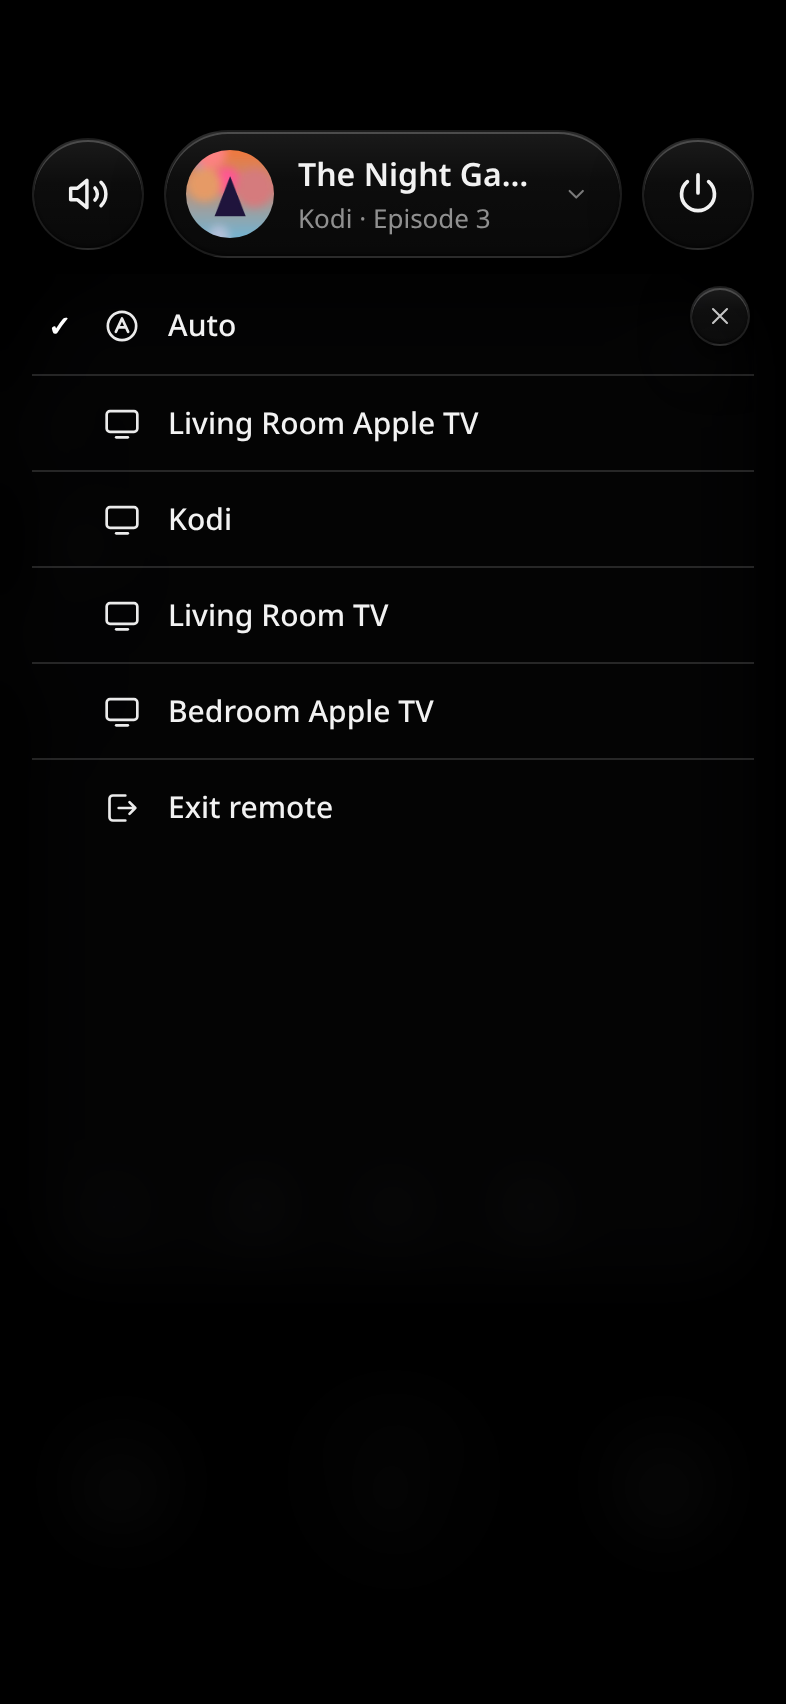
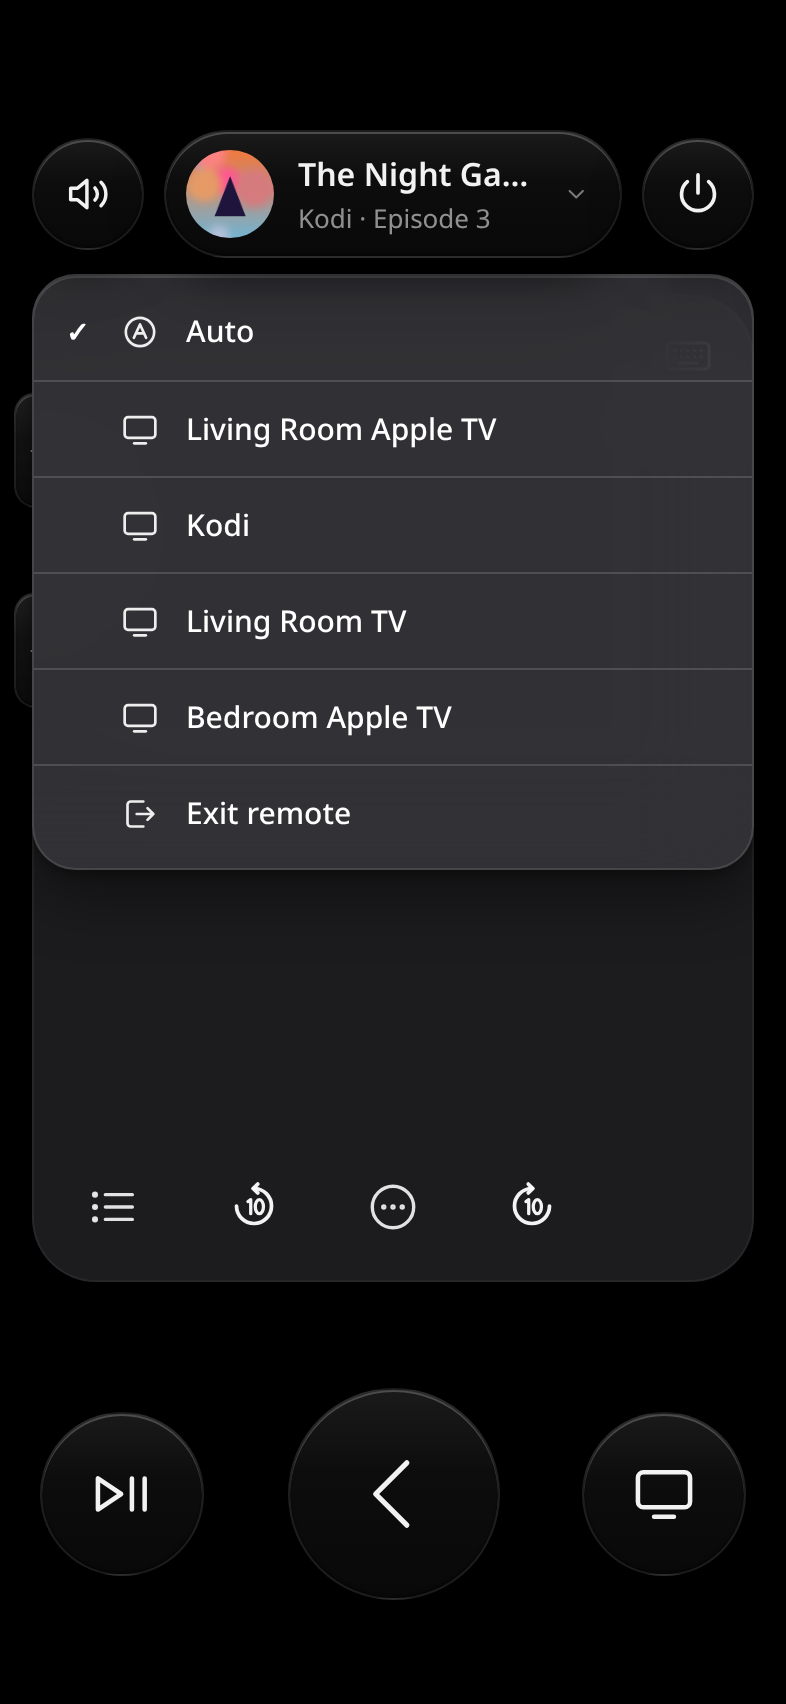
Grok Bot: 0.1.12 - device picker is a compact floating frosted-glass panel only as tall as its rows (rounded, soft shadow, grows down from the pill, scrolls only past the screen bottom); no full-page shade (transparent tap-catcher still closes on outside tap); close button removed (pill, outside tap

diff --git a/test/test.js b/test/test.js
@@ -192,7 +192,7 @@ function ptr(w, el, type, x = 100, y = 100) {
     m.$(".kb-sub").textContent === "Keyboard Input" && m.$(".kb .kb-x").classList.contains("glass") && !m.$(".kb .hint") &&
     [...m.card.shadowRoot.querySelectorAll(".kb .row button")].every((b) => b.classList.contains("glass")) &&
     m.$(".kb textarea").placeholder === "Type or dictate", m.$(".kb-title").textContent);
-  check("D17c picker keeps a thin glass close button", !!m.$(".picker .dd-x.glass"));
+  check("D17c picker has no close button (removed in 0.1.12, Grok Bot 11 Oct 2026); the typing sheet keeps its own", !m.$(".picker .dd-x") && !!m.$(".kb .kb-x.glass"));
   const ta = m.$(".kb textarea"); ta.value = "space"; ta.dispatchEvent(new w.Event("input")); await sleep(400);
   check("D18 Kodi: live Input.SendText done=false while typing", eq(m.hass.calls, [["kodi", "call_method", { entity_id: "media_player.kodi", method: "Input.SendText", text: "space", done: false }]]), m.hass.calls);
   ta.value = "space x"; ta.dispatchEvent(new w.Event("input"));
@@ -554,13 +554,43 @@ function ptr(w, el, type, x = 100, y = 100) {
     check("PK4 tapping the pill again closes it", !k.$(".picker").classList.contains("show") && !k.$(".pill").classList.contains("open"));
     k.$(".pill").click(); k.$(".picker").dispatchEvent(new w.MouseEvent("click", { bubbles: true }));
     check("PK5 tapping outside the list closes it", !k.$(".picker").classList.contains("show"));
-    k.$(".pill").click(); k.$(".picker .dd-x").click();
-    check("PK6 close button closes it", !k.$(".picker").classList.contains("show") && !k.$(".pill").classList.contains("open"));
+    // 0.1.12 (Grok Bot, 11 Oct 2026): the close button is gone; Escape is the third way to close (pill, outside, Escape)
+    k.$(".pill").click(); k.$(".picker .opt").dispatchEvent(new w.KeyboardEvent("keydown", { key: "Escape", bubbles: true, composed: true }));
+    check("PK6 no close button; Escape closes it", !k.$(".picker .dd-x") && !k.$('.picker [aria-label="Close"]') && !k.$('.picker [data-act="close"]') &&
+      !k.$(".picker").classList.contains("show") && !k.$(".pill").classList.contains("open"));
     check("PK7 no platform logo icons; neutral banner wording", !/mdi:apple/.test(JSON.stringify(Object.values(H.PLATFORMS).map((p) => p.icon))) &&
       !/iOS|Apple TV/.test(H.bannerText({ platform: "apple_tv" }, "Den").body));
     const src = fs.readFileSync(path.join(ROOT, "glass-remote-card.js"), "utf8");
     check("PK8 no design comparisons or trademark style names in the code", !/Liquid|Siri|iOS Remote|Apple's|Apple-style|Apple-TV-Remote|SF Pro|-apple-system|tvOS/.test(src));
     k.card.remove(); w.localStorage.clear();
+  }
+
+  // ---- DD: compact floating picker panel, no full-page sheet, no close button (0.1.12, Grok Bot 11 Oct 2026) ----
+  {
+    w.localStorage.clear();
+    const k = mount(w, CONFIG(), states({ "media_player.kodi": { attributes: { source_list: ["Movies", "TV"], source: "TV" } } }));
+    const css = k.$("style").textContent;
+    const rule = (sel) => { const m = css.match(new RegExp("\\n\\s*" + sel.replace(/[.*+?^${}()|[\]\\]/g, "\\$&") + " \\{([^}]*)\\}")); return m ? m[1] : ""; };
+    const dd = rule(".dd"), bg = rule(".dd-bg");
+    check("DD1 the list is the frosted glass panel: blur, rounded corners, soft shadow", /backdrop-filter: blur\(30px\)/.test(dd) && /border-radius: 22px/.test(dd) && /box-shadow:[^;]*0 12px 32px/.test(dd), dd);
+    check("DD2 panel is only as tall as its rows: height auto, no inset/bottom/min-height, scroll cap at the screen bottom only",
+      /height: auto/.test(dd) && !/inset:|bottom:|min-height/.test(dd) && /max-height: calc\(100dvh - var\(--dd-top, 80px\) - 16px\); overflow-y: auto/.test(dd), dd);
+    check("DD3 no full-page shade: no .dd-shade element or rule; catcher is transparent", !k.$(".dd-shade") && !/\.dd-shade/.test(css) && /background: transparent/.test(bg) && !/backdrop-filter/.test(bg), bg);
+    check("DD4 still grows down from the pill (top-anchored, slide-down transform)", /top: var\(--dd-top/.test(dd) && /transform-origin: 50% 0; transform: translateY\(-14px\) scaleY\(\.7\)/.test(dd));
+    check("DD5 no close button anywhere in the picker markup or CSS", !/\.dd-x/.test(css) && !k.$(".picker button:not(.opt)"));
+    k.$(".pill").click();
+    const rows = [...k.card.shadowRoot.querySelectorAll(".picker .dd > .opts > .opt")];
+    check("DD6 open panel holds only the rows (Auto, devices, Exit), hairlines between rows, tick on the selected row",
+      rows.length === 6 && k.$(".picker .dd").children.length === 1 && /\.opt \{[^}]*border-top: \.5px solid/.test(css) && /\.opt:first-child \{ border-top: none; \}/.test(css) &&
+      rows.filter((r) => r.querySelector(".tick").textContent === "\u2713").length === 1);
+    check("DD7 rows inset inside the panel (no space kept for a close button)", /\.opt \{ width: 100%; display: flex; align-items: center; gap: 12px; padding: 0 16px 0 14px;/.test(css));
+    // sources / sound mode / More: already compact floating menus, transparent catcher, no close button
+    const mrule = rule(".menu"), mbg = rule(".menu-bg");
+    check("DD8 other button menus are compact floating panels without a close button", !/background|backdrop-filter/.test(mbg) && /max-height: 56vh/.test(mrule) && /border-radius: 22px/.test(mrule) &&
+      !k.$('.menu [aria-label="Close"], .menu-bg [data-act="close"]'));
+    k.card._closeSheets(); k.card._openMenu("sources", k.$(".src"));
+    check("DD9 sources menu opens without a close button", k.$(".menu-bg").classList.contains("show") && !k.$('.menu [aria-label="Close"]') && !k.$(".menu .dd-x"));
+    k.card._closeMenu(); k.card.remove(); w.localStorage.clear();
   }
 
   // ---- PT: whole pill is one tap target; pill toggles the open picker (0.1.11, Grok Bot 11 Oct 2026) ----
@@ -591,8 +621,7 @@ function ptr(w, el, type, x = 100, y = 100) {
     k.$(".pill .l1").dispatchEvent(new w.MouseEvent("click", { bubbles: true, composed: true }));
     check("PT6 title tap toggles open then closed", o1 && !isOpen());
     pill.click(); k.$(".picker").dispatchEvent(new w.MouseEvent("click", { bubbles: true })); const outside = !isOpen();
-    pill.click(); k.$(".picker .dd-x").click();
-    check("PT7 tapping outside and the close button still close it (and lower the top row)", outside && !isOpen() && !k.$(".top").classList.contains("dd-open"));
+    check("PT7 tapping outside still closes it (and lowers the top row); no close button (0.1.12)", outside && !isOpen() && !k.$(".top").classList.contains("dd-open") && !k.$(".picker .dd-x"));
     pill.click(); k.$(".picker .opt").dispatchEvent(new w.KeyboardEvent("keydown", { key: "Escape", bubbles: true, composed: true }));
     check("PT8 keyboard: Escape closes and focus returns to the pill", !isOpen() && R.activeElement === pill);
     // a tap on a page layer stacked over the pill's area is routed to the pill (full-screen only)

diff --git a/glass-remote-card.js b/glass-remote-card.js
@@ -30,8 +30,8 @@
  * banner text without platform trademarks, system-ui font stack, trademark notice.
  * 0.1.10 device picker: a dropdown anchored under the top pill that grows downward (never a bottom sheet).
  * The pill's chevron turns from > to v; rows are plain (tick, small device icon, name) with hairline dividers;
- * Auto and Exit remote stay as rows; a thin close button sits at the list's top right; tapping outside or on
- * the pill closes it. The list spans the top row (the column on tablets).
+ * Auto and Exit remote stay as rows; tapping outside or on the pill closes it (0.1.10 also had a close button,
+ * removed in 0.1.12). The list spans the top row (the column on tablets).
  * 0.1.11 (Grok Bot, 11 Oct 2026): the whole top pill is one tap target. A live test showed taps on the
  * middle of the pill and on its chevron did not open the picker; only a click on the button's exact centre
  * did. Root cause: the card's full-screen layer and the picker backdrop are stacked inside the dashboard
@@ -40,11 +40,18 @@
  * itself is always the target; the picker now lives inside the card's own layer with the top row raised
  * above its backdrop, so tapping the pill toggles it closed; and taps that land on a foreign layer over the
  * pill's area are routed to the pill. One button (aria-haspopup, aria-expanded, aria-controls); Escape closes.
+ * 0.1.12 (Grok Bot, 11 Oct 2026): the device picker is a compact floating frosted-glass panel that is only as
+ * tall as its rows (Auto, the devices, Exit remote) and grows down from the pill, with rounded corners and a
+ * soft shadow. Why: feedback that the open dropdown covered the whole page as a dark full-height sheet. The
+ * full-page shade is gone; a transparent full-screen tap-catcher stays, so tapping outside still closes it.
+ * The panel scrolls only when the rows would run past the bottom of the screen. The close button is removed:
+ * tapping the pill, tapping outside or pressing Escape closes it. The sources, sound mode and More menus were
+ * already compact floating panels without a close button, so they are unchanged.
  */
 (() => {
   "use strict";
 
-  const VERSION = "0.1.11";
+  const VERSION = "0.1.12";
   const TAG = "glass-remote-card";
   const PICK_KEY = "glass-remote-card:pick:";
 
@@ -721,21 +728,20 @@
     /* picker header, 0.1.8: same layout as the typing sheet's header (title + thin close in a glass circle) */
     .sheet h3 { margin: 0; padding: 2px 0 10px 6px; font-size: 15px; font-weight: 600; color: #fff; display: flex; justify-content: space-between; align-items: center; }
     /* device picker, 0.1.10 (Grok Bot, 11 Oct 2026): dropdown anchored under the pill, grows downward.
-       Transparent full-screen catcher (tap anywhere outside the list, pill included, closes it); the shade starts
-       below the top row so the pill stays visible; rows are plain with hairline dividers and a left tick. */
-    .dd-bg { position: fixed; inset: 0; z-index: 20; visibility: hidden; pointer-events: none; transition: visibility 0s linear .28s; }
+       Rows are plain with hairline dividers and a left tick.
+       0.1.12 (Grok Bot, 11 Oct 2026): compact floating panel. What: the list itself is the frosted glass panel
+       (rounded corners, soft shadow), only as tall as its rows, scrolling only if it would run off the screen;
+       no full-page shade (the .dd-bg catcher is transparent, tap outside still closes) and no close button.
+       Why: the open dropdown covered the whole page; it should stop at its last row. */
+    .dd-bg { position: fixed; inset: 0; z-index: 20; background: transparent; visibility: hidden; pointer-events: none; transition: visibility 0s linear .28s; }
     .dd-bg.show { visibility: visible; pointer-events: auto; transition: none; }
-    .dd-shade { position: fixed; left: 0; right: 0; bottom: 0; top: var(--dd-top, 80px); background: rgba(0,0,0,.86);
-      -webkit-backdrop-filter: blur(14px); backdrop-filter: blur(14px); opacity: 0; transition: opacity .22s ease; pointer-events: none; }
-    .dd-bg.show .dd-shade { opacity: 1; }
-    .dd { position: fixed; top: var(--dd-top, 80px); left: var(--dd-left, 16px); width: var(--dd-width, calc(100vw - 32px));
-      max-height: calc(100dvh - var(--dd-top, 80px) - 16px); overflow-y: auto; overscroll-behavior: contain; padding: 2px 0 6px;
+    .dd { position: fixed; top: var(--dd-top, 80px); left: var(--dd-left, 16px); width: var(--dd-width, calc(100vw - 32px)); height: auto;
+      max-height: calc(100dvh - var(--dd-top, 80px) - 16px); overflow-y: auto; overscroll-behavior: contain; padding: 4px 0;
+      border-radius: 22px; ${PANEL} box-shadow: inset 0 1px 0 rgba(255,255,255,.14), 0 12px 32px rgba(0,0,0,.45), 0 2px 6px rgba(0,0,0,.3);
       transform-origin: 50% 0; transform: translateY(-14px) scaleY(.7); opacity: 0;
       transition: transform .28s cubic-bezier(.2,.9,.3,1.08), opacity .18s ease; }
     .dd-bg.show .dd { transform: none; opacity: 1; }
-    .dd-x { position: absolute; top: 6px; right: 2px; width: 30px; height: 30px; border-radius: 50%; display: grid; place-items: center; --s: 14px; z-index: 1; }
-    .dd-x .icon { opacity: .8; }
-    .opt { width: 100%; display: flex; align-items: center; gap: 12px; padding: 0 44px 0 6px; min-height: 48px; text-align: left; font-size: 15px;
+    .opt { width: 100%; display: flex; align-items: center; gap: 12px; padding: 0 16px 0 14px; /* 0.1.12: inset inside the panel, no room kept for a close button */ min-height: 48px; text-align: left; font-size: 15px;
       border-top: .5px solid rgba(255,255,255,.14); transition: background .15s; }
     .opt:first-child { border-top: none; }
     .opt:active { background: rgba(255,255,255,.07); }
@@ -998,7 +1004,8 @@
             <button class="side glass" data-key="home" aria-label="Home">${icon("home")}</button>
           </div>
           <!-- 0.1.11 (Grok Bot, 11 Oct 2026): picker inside the card's layer so the raised top row can sit above its backdrop -->
-          <div class="dd-bg picker"><div class="dd-shade"></div><div class="dd" id="grc-picker" role="listbox" aria-label="Choose device"><button class="dd-x glass" data-act="close" aria-label="Close">${icon("close")}</button><div class="opts"></div></div></div>
+          <!-- 0.1.12 (Grok Bot, 11 Oct 2026): no full-page shade and no close button; the list is a compact glass panel -->
+          <div class="dd-bg picker"><div class="dd" id="grc-picker" role="listbox" aria-label="Choose device"><div class="opts"></div></div></div>
         </div>
         <div class="menu-bg"><div class="menu" role="menu"></div></div>
         <div class="toast" role="status" aria-live="polite"></div>

diff --git a/CHANGELOG.md b/CHANGELOG.md
@@ -4,11 +4,23 @@ All notable changes to this project are documented here. The format follows
 [Keep a Changelog](https://keepachangelog.com/en/1.1.0/) and the project uses
 [Semantic Versioning](https://semver.org/).
 
-## [0.1.11] - 2026-10-11
+## [0.1.12] - 2026-10-11
 
 First public release. Glass Remote Card is a frosted-glass touchpad remote for Home Assistant that follows whatever you're watching: Kodi, LG webOS, devices from the Apple TV integration, or any `media_player`. It has a touchpad, volume tabs, keyboard and dictation, a keyboard banner, sources, sound mode, a More menu, a CH control and input switching. It's a single file with no dependencies. Everything below was built and tested privately on the same day.
 
 Not affiliated with or endorsed by Apple Inc. Apple TV is a trademark of Apple Inc.
+
+### Changed
+- The device picker under the top pill is now a compact floating frosted-glass panel with rounded corners and a soft shadow. It is only as tall as its rows (Auto, your devices, Exit remote) and slides down from the pill. Before, the open dropdown darkened the whole page below the pill like a full-height sheet. The panel keeps the same width, the hairline dividers and the tick on the selected row, and it scrolls only if the rows would run past the bottom of the screen.
+- Tapping outside still closes the picker (a transparent full-screen catcher), but the page is no longer dimmed.
+
+### Removed
+- The picker's close button. Tap the pill again, tap outside, or press Escape to close it.
+
+### Unchanged
+- The sources, sound mode and More menus were already compact floating panels without a close button. The typing sheet keeps its close button.
+
+## [0.1.11] - 2026-10-11
 
 ### Fixed
 - The whole top pill (artwork, title, subtitle, chevron and padding) is now one tap target that opens the device picker. Before, on a real dashboard only a tap at the button's exact centre worked: the card's full-screen layer and the picker's backdrop are stacked inside the dashboard view, so another page layer above the card could take taps over the top row. The pill's children no longer take pointer events (the button is always the target, and the artwork can't be dragged), and a tap that lands on another page layer over the pill's area is routed to the pill (full-screen layout only; dialogs, links and form fields are left alone).

diff --git a/PUBLISHING.md b/PUBLISHING.md
@@ -35,8 +35,8 @@ gh repo edit evski/ha-glass-remote-card --enable-discussions --enable-issues
 Then check that the **HACS validation** and **Tests** workflows pass on `main`.
 
 ## 3. First release
-1. Make sure `const VERSION` in `glass-remote-card.js`, `package.json` and the `## [x.y.z]` heading in `CHANGELOG.md` all match. Change "unreleased" to the date (done for 0.1.11: 2026-10-11).
-2. `git tag v0.1.11 && git push origin v0.1.11`. The **Release** workflow runs the tests, checks the version and publishes the release with the JS attached.
+1. Make sure `const VERSION` in `glass-remote-card.js`, `package.json` and the `## [x.y.z]` heading in `CHANGELOG.md` all match. Change "unreleased" to the date (done for 0.1.12: 2026-10-11).
+2. `git tag v0.1.12 && git push origin v0.1.12`. The **Release** workflow runs the tests, checks the version and publishes the release with the JS attached.
 
 ## 4. Getting it found
 - Post in the Home Assistant Community forum (Dashboards & Frontend → Custom cards) with screenshots, and set the repo homepage to that thread.
